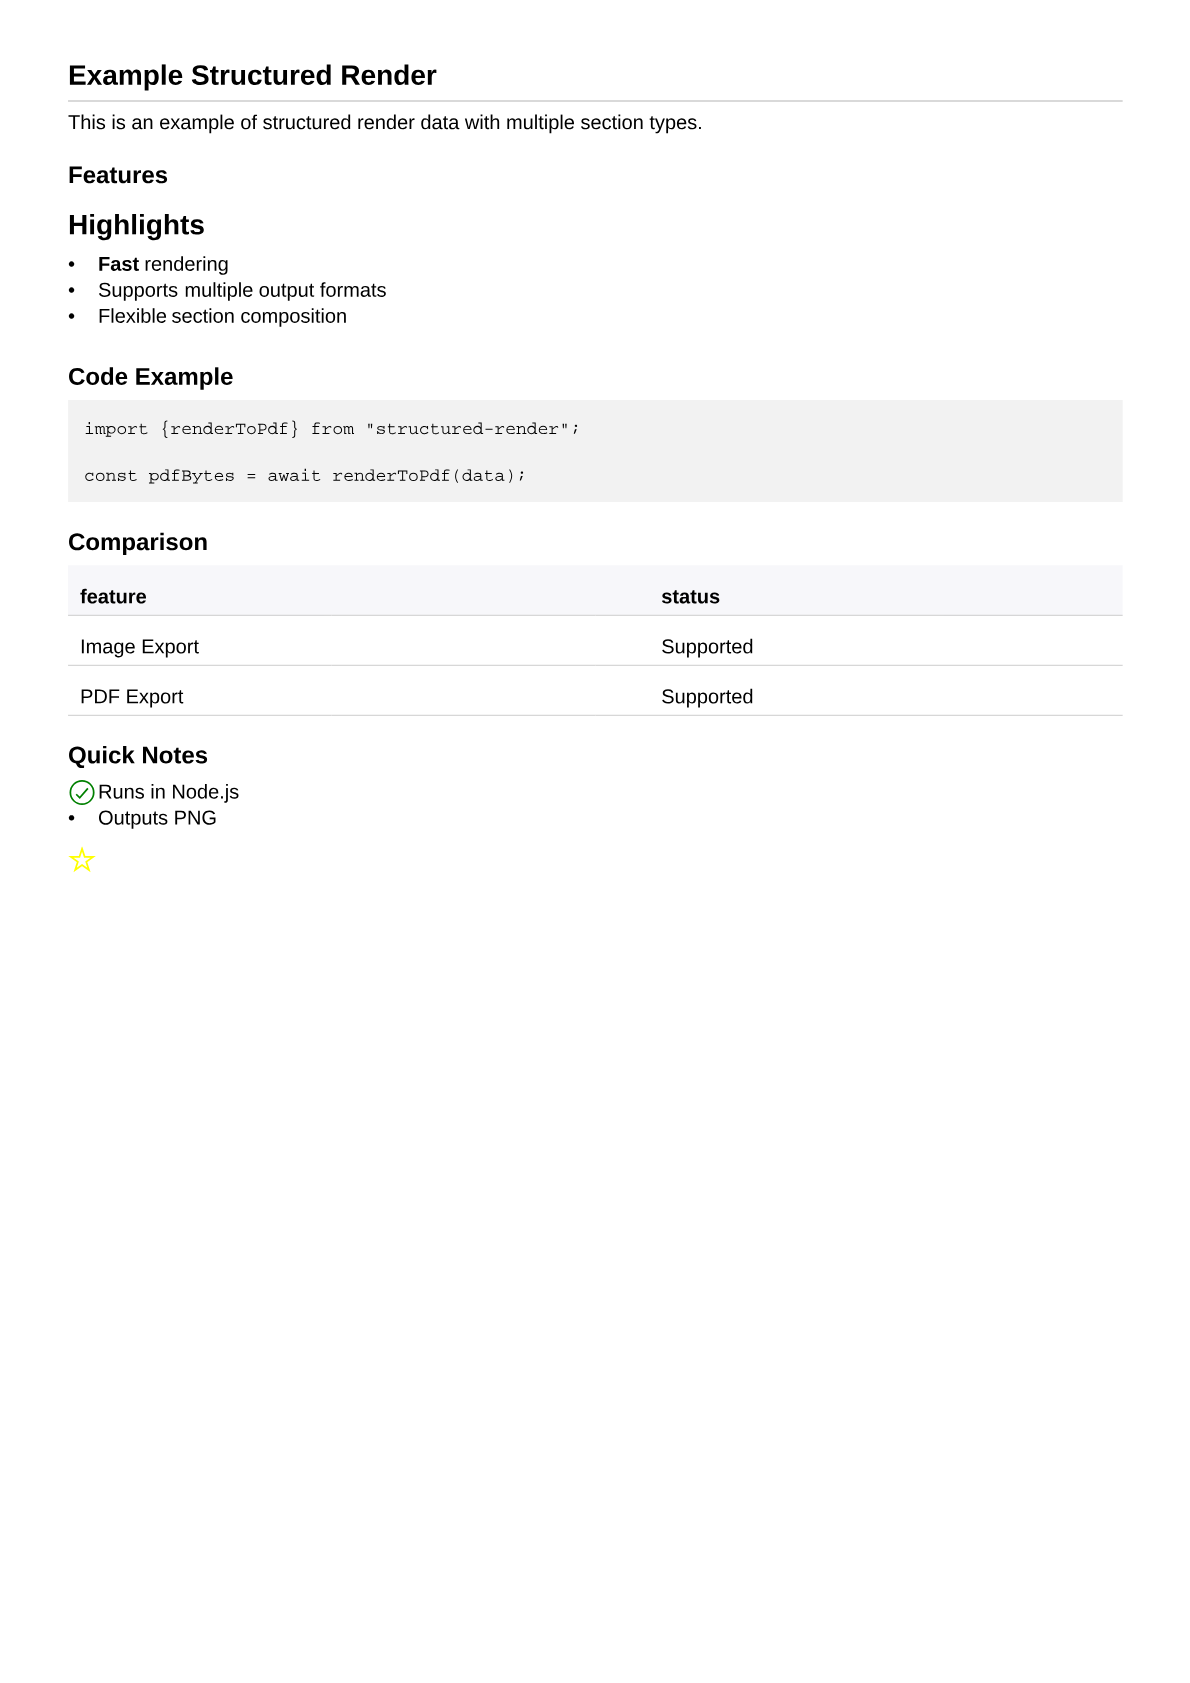
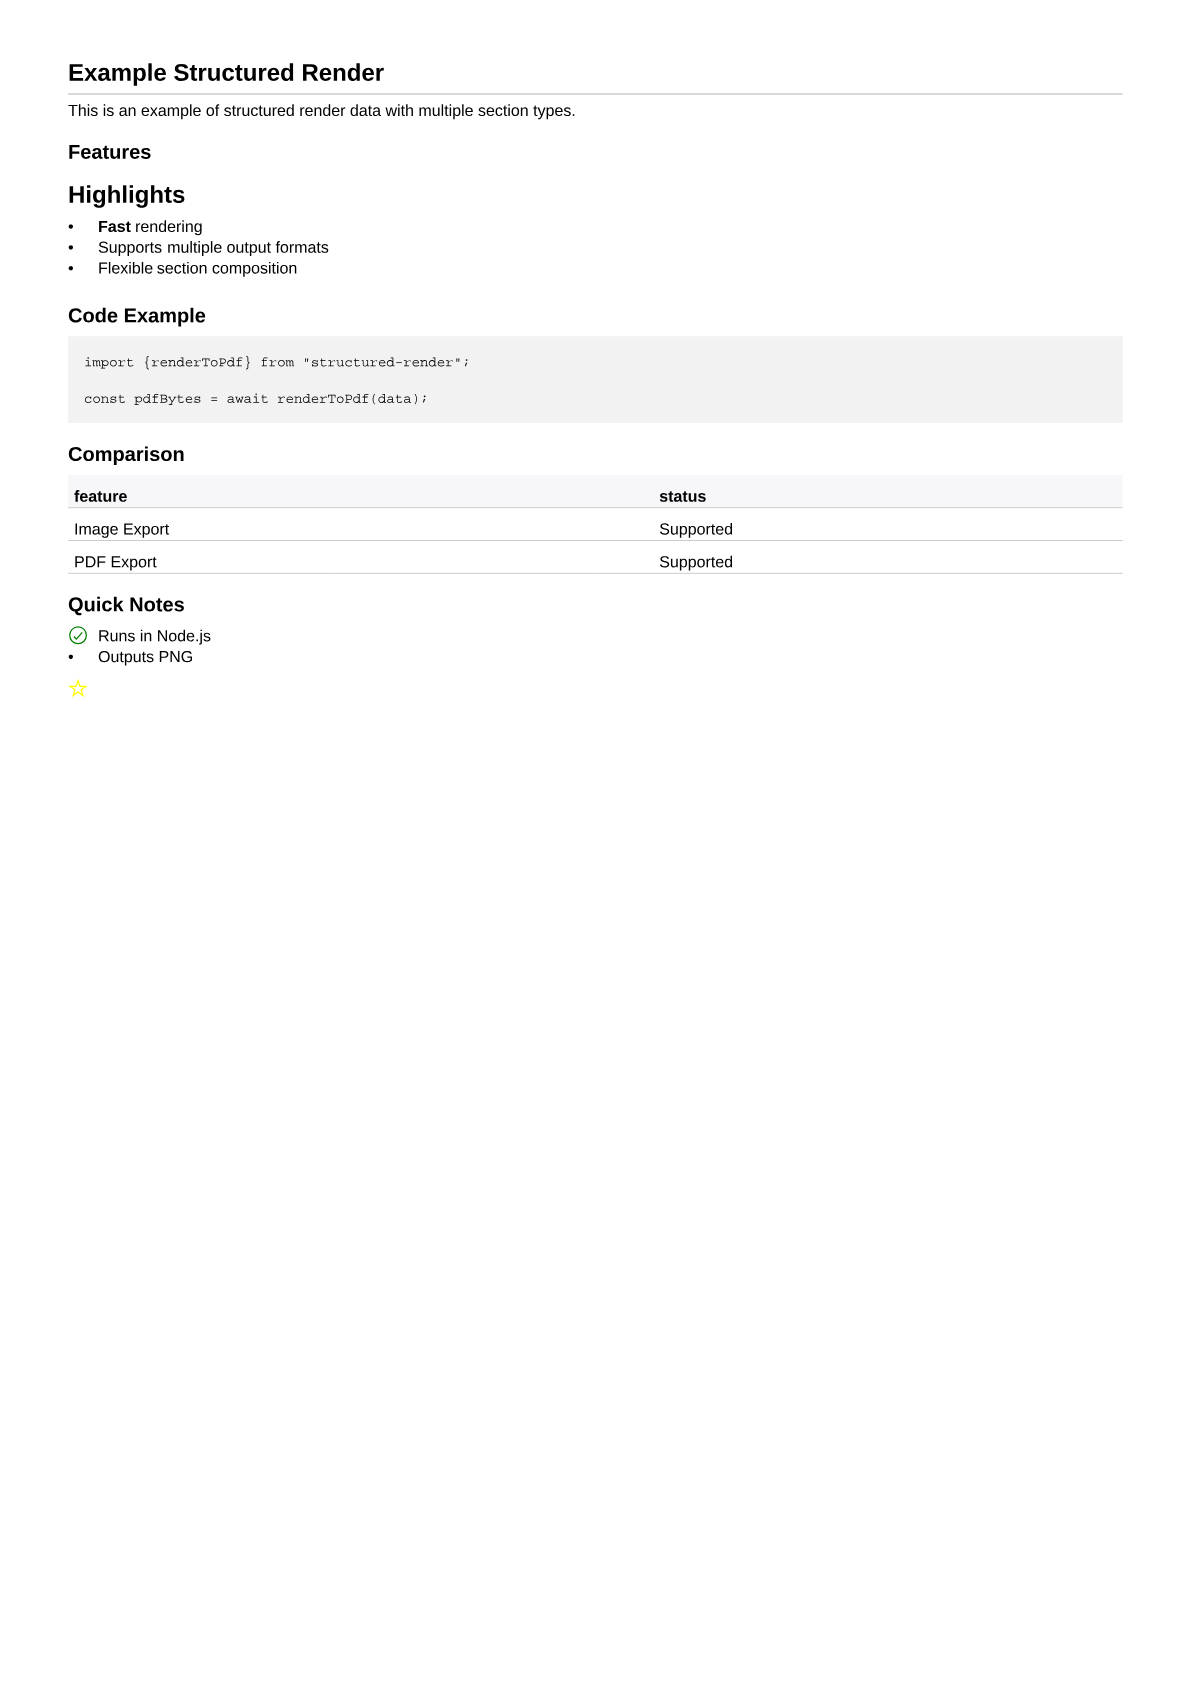
[patch] generate smaller text for PDF files

diff --git a/packages/structured-render/src/render/pdf/pdf-section-renderers.ts b/packages/structured-render/src/render/pdf/pdf-section-renderers.ts
@@ -367,7 +367,7 @@ async function getTextStyleConfig(
     };
 }
 
-const iconSize = 14;
+const iconSize = 10;
 
 /**
  * Draw an icon SVG at the current cursor position. Returns the width consumed (0 if no icon was
@@ -432,7 +432,7 @@ async function renderHorizontalTable(
     builder: PdfDocumentBuilder,
     options: Readonly<RenderOptions>,
 ): Promise<void> {
-    const cellPadding = 6;
+    const cellPadding = 3;
     const columnWidths = computeColumnWidths(
         section,
         visibleHeaders,
@@ -503,7 +503,7 @@ async function renderVerticalTable(
     builder: PdfDocumentBuilder,
     options: Readonly<RenderOptions>,
 ): Promise<void> {
-    const cellPadding = 6;
+    const cellPadding = 3;
     const rowHeight = builder.lineHeight(pdfFontSizes.body) + cellPadding * 2;
 
     /** For vertical tables, each header becomes a row with entry data as columns. */
@@ -544,7 +544,7 @@ function computeColumnWidths(
     options: Readonly<RenderOptions>,
     cellPadding: number,
 ): number[] {
-    const minColumnWidth = 40;
+    const minColumnWidth = 25;
 
     const naturalWidths = visibleHeaders.map((header) => {
         const headerText = header.text ? extractSectionText(header.text, options) : header.key;

diff --git a/packages/structured-render/src/render/pdf/pdf-document-builder.ts b/packages/structured-render/src/render/pdf/pdf-document-builder.ts
@@ -20,13 +20,13 @@ const defaultMargins = {
 
 /** Standard font sizes in points. */
 export const pdfFontSizes = {
-    body: 10,
-    h1: 18,
-    h2: 14,
-    h3: 12,
-    small: 8,
-    code: 9,
-    source: 7,
+    body: 8,
+    h1: 15,
+    h2: 12,
+    h3: 10,
+    small: 6,
+    code: 7,
+    source: 6,
 } as const;
 
 type PdfColors = {
@@ -66,10 +66,10 @@ export async function getPdfColors(): Promise<PdfColors> {
 const lineHeightMultiplier = 1.3;
 
 /** Gap between sections in points. */
-export const sectionGap = 8;
+export const sectionGap = 6;
 
 /** Gap between cards in points. */
-export const cardGap = 14;
+export const cardGap = 10;
 
 /** All embedded fonts available for PDF rendering. */
 export type PdfFonts = {

diff --git a/packages/structured-render/src/render/pdf/pdf-markdown-renderer.ts b/packages/structured-render/src/render/pdf/pdf-markdown-renderer.ts
@@ -464,7 +464,7 @@ async function renderMarkdownTable(
     tableToken: Tokens.Table,
     builder: PdfDocumentBuilder,
 ): Promise<void> {
-    const cellPadding = 4;
+    const cellPadding = 2;
     const rowHeight = builder.lineHeight(pdfFontSizes.body) + cellPadding * 2;
 
     /** Compute column widths from headers and cell content. */
